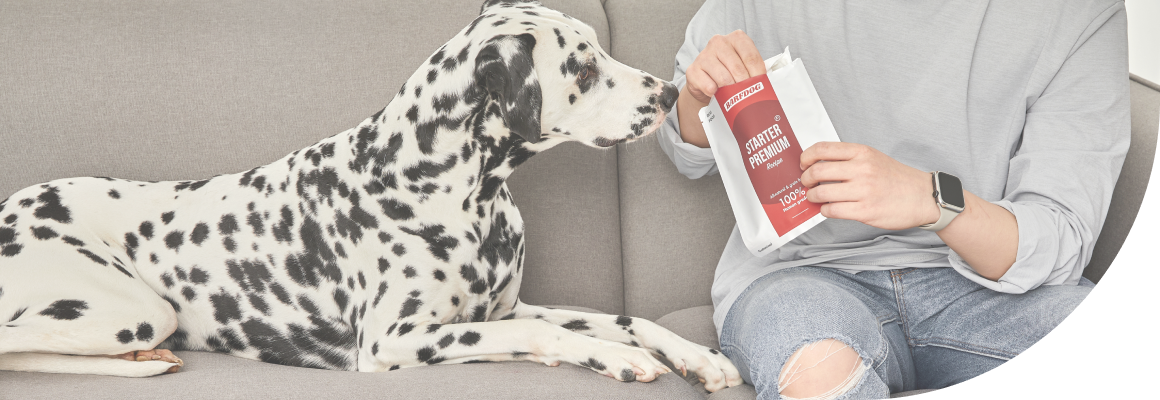
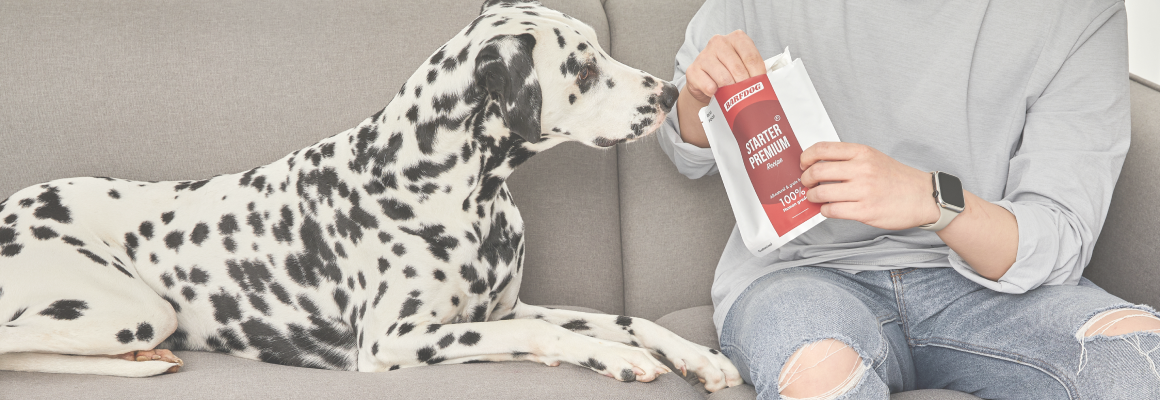
0808 publishing

Changed region(s): [[0.7448, 0.3, 1.0, 1.0]]

diff --git a/src/pages/community/about/about.module.scss b/src/pages/community/about/about.module.scss
@@ -21,6 +21,7 @@ $browser-context:16; // html font-size
       position: absolute;
       width: rem(660);
       height: rem(778);
+      border-radius: rem(300) 0 0 0;
       left : calc(50% - rem(660) /2 - rem(270) );
       top: rem(1192);
       z-index: -3;
@@ -268,6 +269,9 @@ $browser-context:16; // html font-size
       .img_wrap {
         border-radius: 0;
       }
+      .img_wrap2 {
+        border-radius: 0;
+      }
     }
 
     .inner {
@@ -325,7 +329,7 @@ $browser-context:16; // html font-size
     .back_image {
       .img_wrap {
         //사용 이미지가 우측하단 둥글게 편집, 정상이미지 사용 후 rem(230) 적용
-        height: rem(270);
+        height: rem(210);
       }
 
       .img_wrap2 {
@@ -339,6 +343,8 @@ $browser-context:16; // html font-size
     } 
 
     .inner {
+      padding:rem(210) 0 0 0;
+
       .letter_box{
         border-radius: 0;
         width: calc(100% - rem(20));
@@ -363,13 +369,14 @@ $browser-context:16; // html font-size
         position: absolute;
         bottom: 0;
         left: 0;
-        background-image: url(https://barf-draft.vercel.app/_next/image?url=%2F_next%2Fstatic%2Fmedia%2Fcommunity_2.da2c81b3.png&w=1200&q=75);
+        background-image: url("../../../.././public/img/pages/community/community_2.png");
         background-repeat: no-repeat;
-        background-size: rem(660) rem(778);
-        background-position: rem(-40) rem(-180);
+        background-size: rem(560);
+        background-position: center;
         width: 100%;
-        height: rem(300);
-        transform: translateY(rem(300));
+        height: rem(400);
+        transform: translateY(rem(377));
+        z-index: -999;
       }
 
       .letter_box2{
